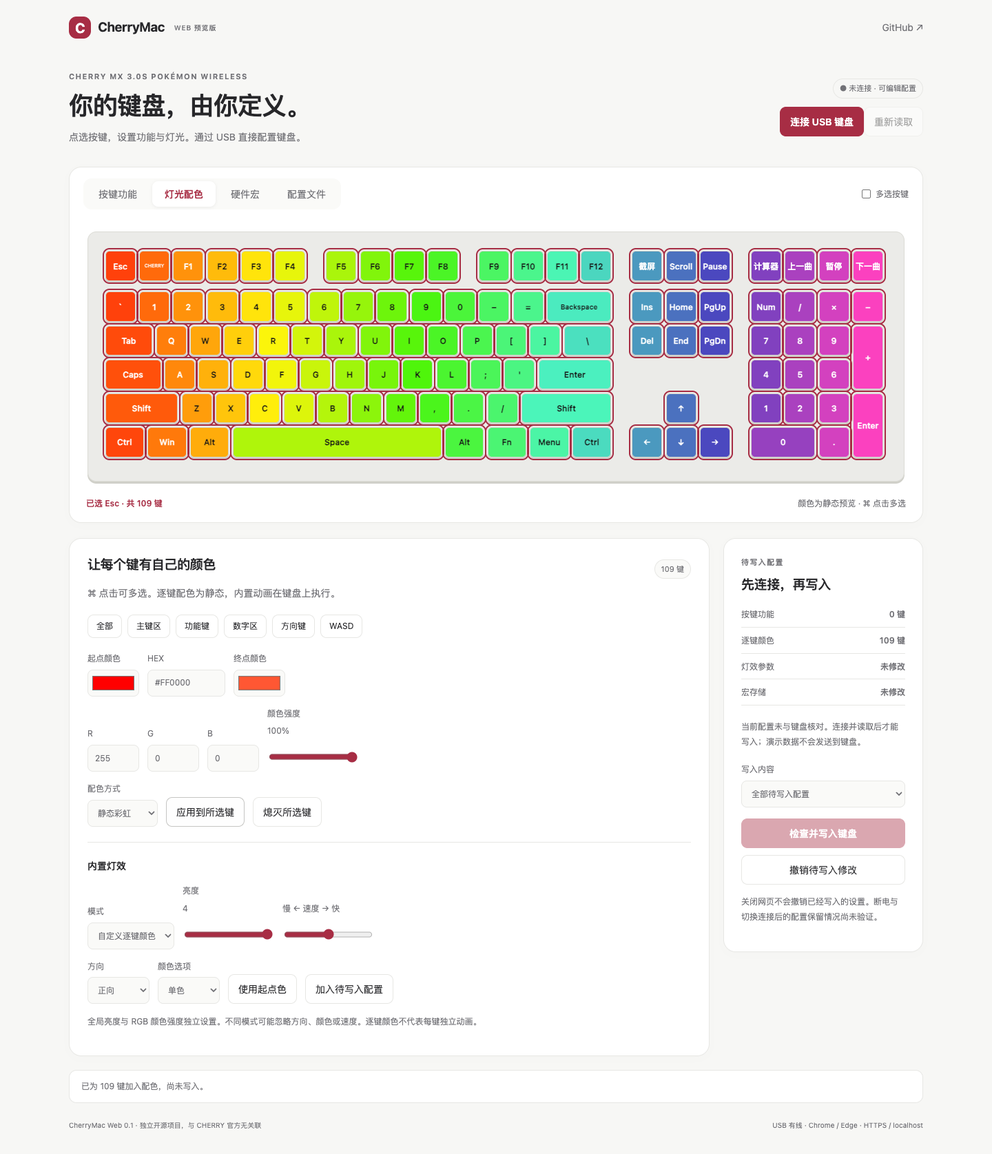
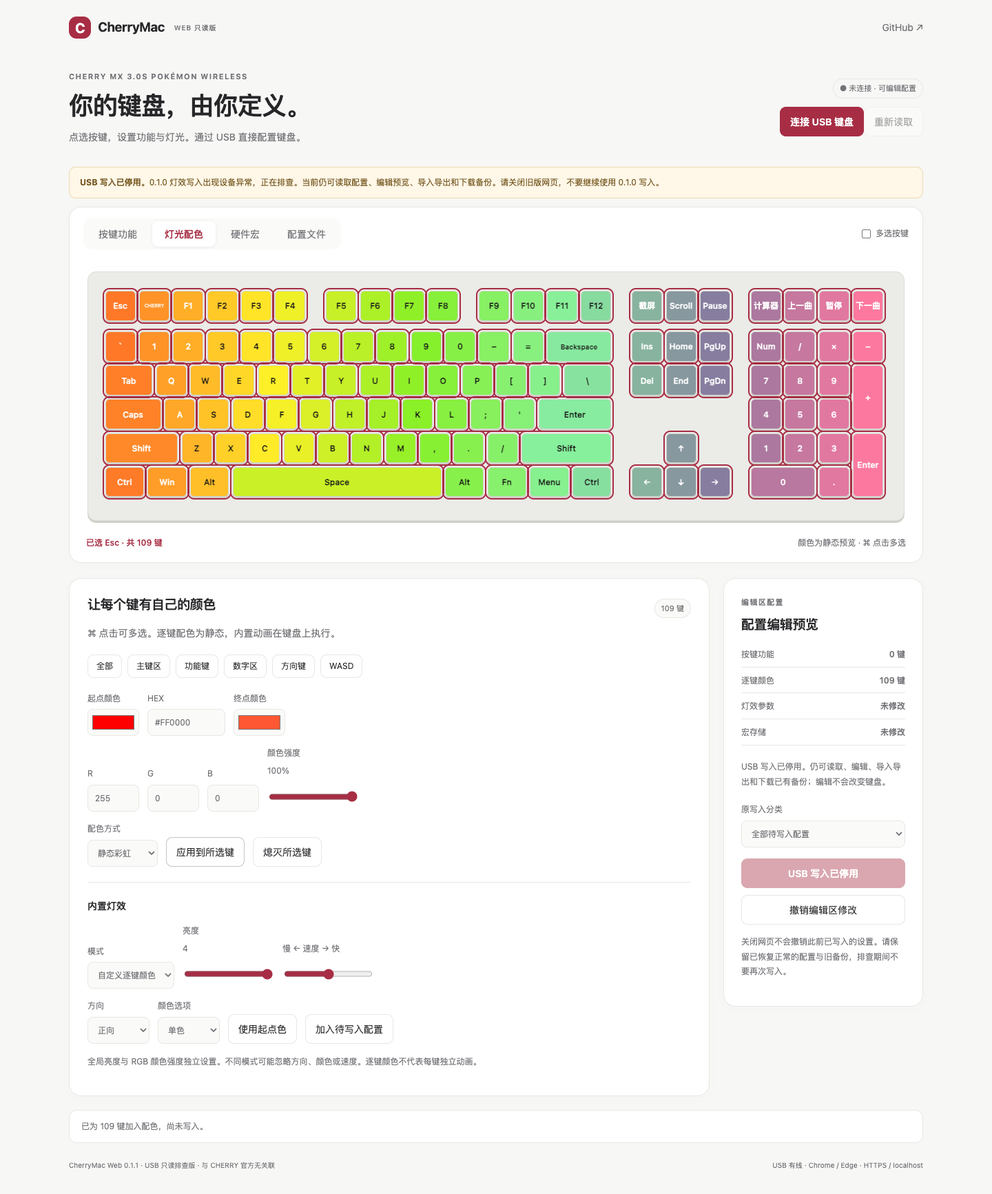
Quarantine USB writes after lighting malfunction and add local diagnostic logs

diff --git a/Web/assets/app.js b/Web/assets/app.js
@@ -1,8 +1,10 @@
-import {keys,modes,usageNames,describe,demoSnapshot,editableSlots} from './layout.js';
-import {clone,equal,requireThat,fromHardware,validateProfile,resolveMacros,parseProfile,validateMacro,rgb,hex,paint} from './model.js';
-import {CherryHID,PageReleaseGate} from './hid.js';
-import {applyConfiguration,validatePlan,sameSnapshot} from './writer.js';
-import {saveBackup,listBackups,download} from './storage.js';
+import {keys,modes,usageNames,describe,demoSnapshot,editableSlots} from './layout.js?v=0.1.1';
+import {clone,equal,requireThat,fromHardware,validateProfile,resolveMacros,parseProfile,validateMacro,rgb,hex,paint} from './model.js?v=0.1.1';
+import {CherryHID,PageReleaseGate} from './hid.js?v=0.1.1';
+import {applyConfiguration,validatePlan,sameSnapshot} from './writer.js?v=0.1.1';
+import {saveBackup,listBackups,download} from './storage.js?v=0.1.1';
+import {WRITE_BLOCK_REASON,assertHardwareWriteAllowed} from './safety.js?v=0.1.1';
+import {saveLog,listLogs} from './logs.js?v=0.1.1';
 const $=id=>document.getElementById(id),demo=demoSnapshot(),gate=new PageReleaseGate();
 let profile=fromHardware(demo),baseline=null,hid=null,busy=false,tab='keys',selected='calculator',selection=new Set([selected]),steps=[],pending=null;
 const supported=isSecureContext&&'hid' in navigator;
@@ -19,11 +21,11 @@ function render(){
   document.querySelectorAll('[data-tab]').forEach(b=>{const active=b.dataset.tab===tab;b.setAttribute('aria-selected',String(active));b.tabIndex=active?0:-1;$(`pane-${b.dataset.tab}`).hidden=!active;});
   $('multi-label').hidden=tab!=='lights';$('board-hint').textContent=tab==='lights'?'颜色为静态预览 · ⌘ 点击多选':'普通键保持正方形 · 点击按键进行设置';
   const online=hid&&!hid.dead&&baseline;$('connection').textContent=online?'● USB 已连接 · 已读取':'● 未连接 · 可编辑配置';$('connection').classList.toggle('connected',!!online);$('disconnect').hidden=!hid||hid.dead;
-  $('change-title').textContent=baseline?(changed?'准备好你的新设置':'与读取的配置一致'):'先连接，再写入';$('changes').replaceChildren();
+  $('change-title').textContent=baseline?(changed?'配置编辑预览':'与读取的配置一致'):'配置编辑预览';$('changes').replaceChildren();
   for(const [name,value] of [['按键功能',`${c.keys} 键`],['逐键颜色',`${c.colors} 键`],['灯效参数',c.params?'已修改':'未修改'],['宏存储',c.macros?'已修改':'未修改']]){const line=document.createElement('div');line.className='change-line';const text=document.createElement('span'),v=document.createElement('b');text.textContent=name;v.textContent=value;line.append(text,v);$('changes').append(line);}
-  $('draft-note').textContent=baseline?'编辑仅改变待写入配置，连接与导入不会自动写入。':'当前配置未与键盘核对。连接并读取后才能写入；演示数据不会发送到键盘。';
+  $('draft-note').textContent='USB 写入已停用。仍可读取、编辑、导入导出和下载已有备份；编辑不会改变键盘。';
   document.querySelectorAll('main button,main input,main select,dialog button').forEach(e=>e.disabled=busy);
-  $('connect').disabled=busy||!supported;$('read').disabled=busy||!hid||hid.dead;$('write').disabled=busy||!online||!changed;
+  $('connect').disabled=busy||!supported;$('read').disabled=busy||!hid||hid.dead;$('write').disabled=true;$('write').textContent='USB 写入已停用';$('confirm-write').disabled=true;
   document.querySelectorAll('[data-record],#stage-shortcut').forEach(b=>b.disabled=busy||!editableSlots.has(key.slot));
   const macroKnown=profile.macroBindings!=null;$('macro-warning').hidden=macroKnown;$('macro-warning').textContent='当前原始宏尚未识别。已保留宏数据；暂不能编辑或覆盖宏库。';
   for(const id of ['save-macro','assign-macro','delete-macro','add-pair'])$(id).disabled=busy||!macroKnown||(id==='assign-macro'&&!editableSlots.has(key.slot));
@@ -44,7 +46,7 @@ function renderSteps(){const parent=$('macro-steps');parent.replaceChildren();st
   });}
 function stageRecord(record){const key=keys.find(k=>k.id===selected);requireThat(editableSlots.has(key.slot),'内部功能键不能改写。');const p=clone(profile);p.snapshot.keymap.splice(key.slot*3,3,...record);if(p.macroBindings)delete p.macroBindings[key.slot];validateProfile(p);profile=p;status(`已为 ${key.label} 设置 ${describe(record)}，尚未写入。`);}
 async function act(fn){if(busy)return;try{await fn();render();}catch(error){status(error.message,true);render();}}
-async function read(){const s=await hid.snapshot();baseline=clone(s);profile=safeProfile(s);refreshMacros();loadMacro();syncLights();try{await saveBackup(s);}catch(error){status(`读取成功，但本地备份不可用：${error.message} 写入前必须能保存备份。`,true);return;}status('已读取完整配置并保存本地备份。可以开始编辑，尚未写入。');}
+async function read(){const s=await hid.snapshot();baseline=clone(s);profile=safeProfile(s);refreshMacros();loadMacro();syncLights();try{await saveBackup(s);}catch(error){status(`读取成功，但本地备份不可用：${error.message} USB 写入仍停用。`,true);return;}status('已读取完整配置并保存本地备份。USB 写入已停用；编辑不会改变键盘。');}
 async function operation(fn){if(busy)return;busy=true;render();try{await fn();}catch(error){status(error.message,true);}finally{busy=false;render();}}
 function switchTab(next){tab=next;if(tab==='lights')syncLights();render();}
 // Build real buttons so the diagram supports mouse, keyboard and screen readers.
@@ -68,16 +70,17 @@ $('macro-list').onchange=loadMacro;$('add-pair').onclick=()=>{const usage=Number
 $('save-macro').onclick=()=>act(()=>{const p=clone(profile),old=$('macro-list').value,m={name:$('macro-name').value.trim(),steps:clone(steps)};validateMacro(m);requireThat(!p.macros.some(macro=>macro.name===m.name&&macro.name!==old),'宏名称已存在。');const index=p.macros.findIndex(m=>m.name===old);if(index<0)p.macros.push(m);else{p.macros[index]=m;for(const [slot,name] of Object.entries(p.macroBindings??{}))if(name===old)p.macroBindings[slot]=m.name;}p.snapshot=resolveMacros(p);profile=p;refreshMacros(m.name);loadMacro();status('宏已保存到编辑区，尚未写入键盘。');});
 $('assign-macro').onclick=()=>act(()=>{const name=$('macro-list').value,key=keys.find(k=>k.id===selected);requireThat(name&&editableSlots.has(key.slot),'请选择已保存的宏和可配置按键。');const p=clone(profile);p.macroBindings[key.slot]=name;p.snapshot=resolveMacros(p);profile=p;status(`已将 ${name} 分配到 ${key.label}，尚未写入。`);});
 $('delete-macro').onclick=()=>act(()=>{const name=$('macro-list').value;requireThat(name,'请选择要删除的宏。');const p=clone(profile);for(const [slot,binding] of Object.entries(p.macroBindings))if(binding===name){p.snapshot.keymap.splice(Number(slot)*3,3,0x20,0,0);delete p.macroBindings[slot];}p.macros=p.macros.filter(m=>m.name!==name);p.snapshot=resolveMacros(p);profile=p;refreshMacros();loadMacro();status('已删除宏，原绑定键设为禁用，尚未写入。');});
-$('connect').onclick=()=>operation(async()=>{status('请在浏览器弹窗中选择 CHERRY USB 键盘。');const devices=await navigator.hid.requestDevice({filters:[{vendorId:1130,productId:462,usagePage:0xff1c,usage:0x92}]});requireThat(devices.length===1,'未选择键盘，配置没有变化。');if(hid)await hid.close();baseline=null;hid=new CherryHID(devices[0],{progress:message=>status(message+'…'),onDisconnect:error=>{status(error.message,true);render();}});await hid.open();await read();});
+$('connect').onclick=()=>operation(async()=>{status('请在浏览器弹窗中选择 CHERRY USB 键盘。');const devices=await navigator.hid.requestDevice({filters:[{vendorId:1130,productId:462,usagePage:0xff1c,usage:0x92}]});requireThat(devices.length===1,'未选择键盘，配置没有变化。');if(hid)await hid.close();baseline=null;hid=new CherryHID(devices[0],{log:saveLog,progress:message=>status(message+'…'),onDisconnect:error=>{status(error.message,true);render();}});await hid.open();await read();});
 $('read').onclick=()=>operation(read);$('disconnect').onclick=()=>operation(async()=>{if(hid)await hid.close();hid=null;status('已断开配置接口，键盘仍可正常输入。');});
 $('discard').onclick=()=>act(()=>{profile=safeProfile(baseline??demo);refreshMacros();loadMacro();syncLights();status('已撤销编辑区修改，实体键盘没有变化。');});
 $('import').onclick=()=>$('file').click();$('file').onchange=()=>operation(async()=>{const file=$('file').files[0];$('file').value='';if(!file)return;requireThat(file.size<=1_000_000,'配置文件超过 1 MB。');const p=parseProfile(await file.text(),baseline);profile=p;refreshMacros();loadMacro();syncLights();status('配置已导入编辑区，尚未写入键盘。');});
 $('export').onclick=()=>act(()=>{validateProfile(profile);download(profile,'CherryMac-profile.json');status('已导出待写入配置。');});
-$('show-backups').onclick=()=>act(async()=>{const records=await listBackups();$('backups').replaceChildren();if(!records.length)$('backups').textContent='暂无本地备份。';for(const record of records){const row=document.createElement('div');row.className='backup-row';const date=document.createElement('span');date.textContent=new Date(record.date).toLocaleString();const get=document.createElement('button');get.textContent='下载';get.onclick=()=>download(record.snapshot,`CherryMac-before-write-${record.id}.json`);const restore=document.createElement('button');restore.textContent='导入编辑区';restore.onclick=()=>act(()=>{profile=safeProfile(record.snapshot);refreshMacros();loadMacro();syncLights();status('备份已导入编辑区，确认后手动写入。');});row.append(date,get,restore);$('backups').append(row);}});
-function plan(){requireThat(baseline&&hid&&!hid.dead,'请先连接并读取键盘。');const wanted=clone(profile.snapshot),scope=$('scope').value;if(scope==='keys'){wanted.parameters=clone(baseline.parameters);wanted.colors=clone(baseline.colors);}if(scope==='lights'){wanted.keymap=clone(baseline.keymap);wanted.macroData=clone(baseline.macroData);}validatePlan(wanted,baseline);return wanted;}
+$('show-backups').onclick=()=>act(async()=>{const records=await listBackups();$('backups').replaceChildren();if(!records.length)$('backups').textContent='暂无本地备份。';for(const record of records){const row=document.createElement('div');row.className='backup-row';const date=document.createElement('span');date.textContent=new Date(record.date).toLocaleString();const get=document.createElement('button');get.textContent='下载';get.onclick=()=>download(record.snapshot,`CherryMac-before-write-${record.id}.json`);const restore=document.createElement('button');restore.textContent='导入编辑区';restore.onclick=()=>act(()=>{profile=safeProfile(record.snapshot);refreshMacros();loadMacro();syncLights();status('备份仅导入编辑区预览，未恢复或修改实体键盘。USB 写入已停用。');});row.append(date,get,restore);$('backups').append(row);}});
+$('diagnostics').onclick=()=>operation(async()=>{await hid?.logTasks;let usbLogs=[],logError=hid?.loggingError??null;try{usbLogs=await listLogs();}catch(error){logError=error.message;}const evidence={format:'CherryMacWebDiagnostics',version:1,webVersion:'0.1.1',capturedAt:new Date().toISOString(),browser:navigator.userAgent,origin:location.origin,baseline:clone(baseline),draft:clone(profile),backups:await listBackups(),usbLogs,sessionLogs:clone(hid?.history??[]),logError,note:'包含本地备份及新版只读请求／回复／耗时／错误，不能重建 0.1.0 故障时实际发送的包。'};download(evidence,'CherryMac-diagnostics.json');status(`排查资料已下载到本地，未上传。USB 写入已停用。${logError?' 日志存储异常：'+logError:''}`);});
+function plan(){assertHardwareWriteAllowed();}
 $('write').onclick=()=>act(()=>{pending=plan();requireThat(!sameSnapshot(pending,baseline),'选中的写入类别没有变化。');const c=counts(pending,baseline);$('confirm-summary').textContent=`将修改 ${c.keys} 个键位、${c.colors} 个按键颜色${c.params?'，以及灯效参数':''}${c.macros?'，以及宏存储':''}。`;$('confirm').showModal();});
 $('cancel-write').onclick=()=>{$('confirm').close();pending=null;};
-$('confirm-write').onclick=e=>{let wanted;try{gate.acknowledge(e);wanted=pending;requireThat(wanted,'没有待写入配置。');}catch(error){status(error.message,true);return;}$('confirm').close();pending=null;void operation(async()=>{
+$('confirm-write').onclick=e=>{let wanted;try{assertHardwareWriteAllowed();gate.acknowledge(e);wanted=pending;requireThat(wanted,'没有待写入配置。');}catch(error){status(error.message,true);return;}$('confirm').close();pending=null;void operation(async()=>{
   const after=await applyConfiguration(hid,wanted,baseline,{gate,backup:async snapshot=>{await saveBackup(snapshot);status('写入前备份已保存。');},progress:message=>status(message+'…')});
   const draft=clone(profile.snapshot);baseline=clone(after);profile.snapshot=clone(after);
   if($('scope').value==='keys'){profile.snapshot.parameters=draft.parameters;profile.snapshot.colors=draft.colors;}
@@ -86,4 +89,4 @@ $('confirm-write').onclick=e=>{let wanted;try{gate.acknowledge(e);wanted=pending
 });};
 window.addEventListener('beforeunload',e=>{if(busy){e.preventDefault();e.returnValue='';}});
 if(!supported){$('compatibility').hidden=false;$('compatibility').textContent=!isSecureContext?'当前网址不是安全环境。请使用 HTTPS 或 localhost 打开，才能连接 USB 键盘。':'此浏览器不支持 WebHID。请在电脑上的 Chrome 或 Edge 打开；当前仍可预览与编辑配置。';}
-refreshMacros();syncLights();render();
+refreshMacros();syncLights();render();status(WRITE_BLOCK_REASON,true);

diff --git a/Web/assets/writer.js b/Web/assets/writer.js
@@ -1,6 +1,6 @@
-import {clone,equal,requireThat,validateSnapshot,decodeBank} from './model.js';
-import {editableSlots,modes} from './layout.js';
-import {packet,sleep} from './hid.js';
+import {clone,equal,requireThat,validateSnapshot,decodeBank} from './model.js?v=0.1.1';
+import {editableSlots,modes} from './layout.js?v=0.1.1';
+import {assertHardwareWriteAllowed} from './safety.js?v=0.1.1';
 export const sameSnapshot=(a,b)=>['keymap','parameters','colors','macroData'].every(k=>equal(a[k],b[k]));
 const slots=s=>Array.from({length:126},(_,i)=>i).filter(i=>[0x70,0x71].includes(s.keymap[i*3]));
 function macroDuration(s,indices){const macros=decodeBank(s.macroData);let max=0;
@@ -26,36 +26,8 @@ export function validatePlan(wanted,before){
   }
   if(!equal(wanted.macroData,before.macroData)){decodeBank(wanted.macroData);macroDuration(before,slots(before));macroDuration(wanted,slots(wanted));}
 }
-export async function applyConfiguration(hid,wanted,baseline,{gate,backup,progress=()=>{}}){
-  validatePlan(wanted,baseline);progress('核对键盘当前配置');const before=await hid.snapshot();
-  requireThat(sameSnapshot(before,baseline),'键盘配置已变化。请重新读取后再编辑。');if(sameSnapshot(before,wanted))return before;
-  await backup(before);await gate.check();
-  const bankOffsets=[];for(let o=0;o<3071;o+=54)if(!equal(wanted.macroData.slice(o,o+54),before.macroData.slice(o,o+54)))bankOffsets.push(o);
-  const colorSlots=[];for(let i=0;i<126;i++)if(!equal(wanted.colors.slice(i*3,i*3+3),before.colors.slice(i*3,i*3+3)))colorSlots.push(i);
-  const oldSlots=slots(before),newSlots=slots(wanted),bankChanged=bankOffsets.length>0,keysChanged=!equal(wanted.keymap,before.keymap),paramsChanged=!equal(wanted.parameters,before.parameters);
-  let attempted=false;
-  const send=async p=>{await gate.check();attempted=true;await hid.exchange(p);};
-  const sendKeys=async data=>{for(let o=0;o<378;o+=54)await send(packet(9,o,54,data.slice(o,o+54)));};
-  const sendBank=async data=>{for(const o of [...bankOffsets].reverse())await send(packet(0x15,o,Math.min(54,3071-o),data.slice(o,o+54)));};
-  const sendColors=async data=>{for(const i of colorSlots)await send(packet(0x0b,i*3,3,data.slice(i*3,i*3+3)));};
-  const sendParams=async data=>send(packet(6,0,9,data.slice(0,9),0x55));
-  const drain=async ms=>{progress(`等待已触发的宏结束（${Math.ceil(ms/1000)} 秒）`);for(let left=ms;left>0;left-=100){await gate.check();await sleep(Math.min(left,100));}};
-  const disable=async(s,list)=>{const map=clone(s.keymap);for(const slot of list)map.splice(slot*3,3,0x20,0,0);await sendKeys(map);};
-  try{
-    if(bankChanged){progress('写入宏存储');if(oldSlots.length){await disable(before,oldSlots);await drain(macroDuration(before,oldSlots));}await sendBank(wanted.macroData);requireThat(equal(await hid.read(0x14,3071),wanted.macroData),'宏存储读回不一致。');}
-    if(keysChanged||(bankChanged&&oldSlots.length)){progress('写入键位');await sendKeys(wanted.keymap);}
-    if(colorSlots.length){progress(`写入 ${colorSlots.length} 键颜色`);await sendColors(wanted.colors);}
-    if(paramsChanged){progress('写入灯效参数');await sendParams(wanted.parameters);}
-    progress('完整读回校验');const after=await hid.snapshot();requireThat(sameSnapshot(after,wanted),'写后读回不一致。');return after;
-  }catch(error){
-    if(!attempted)throw error;
-    try{
-      await gate.check();requireThat(!hid.dead,'USB 会话已关闭。');progress('写入失败，恢复原配置');
-      if(bankChanged){const current={...before,keymap:await hid.read(8,378)};await disable(current,[...new Set([...oldSlots,...newSlots])]);await drain(Math.max(macroDuration(before,oldSlots),macroDuration(wanted,newSlots)));await sendBank(before.macroData);}
-      if(keysChanged||bankChanged)await sendKeys(before.keymap);
-      if(colorSlots.length)await sendColors(before.colors);if(paramsChanged)await sendParams(before.parameters);
-      requireThat(sameSnapshot(await hid.snapshot(),before),'恢复读回不一致。');throw new RestoredError(`${error.message} 已恢复写入前的配置。`);
-    }catch(recovery){if(recovery instanceof RestoredError)throw recovery;throw new Error(`${error.message} 自动恢复未完成：${recovery.message} 请重新连接、读取，再导入“写入前备份”恢复。`);}
-  }
+export async function applyConfiguration(){
+  // Quarantined after a user-reported device malfunction. No read, backup,
+  // write or attempted rollback may run through this entry point.
+  assertHardwareWriteAllowed();
 }
-class RestoredError extends Error{}

diff --git a/Web/assets/hid.js b/Web/assets/hid.js
@@ -1,4 +1,5 @@
-import {requireThat,validateSnapshot} from './model.js';
+import {requireThat,validateSnapshot} from './model.js?v=0.1.1';
+import {assertReadOnlyRequest} from './safety.js?v=0.1.1';
 export const sleep=ms=>new Promise(r=>setTimeout(r,ms));
 const READ_COMMANDS=new Set([3,5,7,8,0x0a,0x14,0x1b]);
 export function packet(command,offset,length,data=[],flag=0){
@@ -20,24 +21,30 @@ export function supportsDevice(device){
     descendants(c).some(d=>(d[kind]??[]).some(r=>r.reportId===4&&(r.items??[]).reduce((n,i)=>n+i.reportSize*i.reportCount,0)===504))));
 }
 export class CherryHID{
-  constructor(device,{timeout=2000,onDisconnect=()=>{},progress=()=>{}}={}){
+  constructor(device,{timeout=2000,onDisconnect=()=>{},progress=()=>{},log=()=>{}}={}){
     requireThat(supportsDevice(device),'浏览器没有提供这把键盘的 63 字节厂商配置接口。请确认 USB 有线模式。');
     this.device=device;this.timeout=timeout;this.progress=progress;this.onDisconnect=onDisconnect;this.tail=Promise.resolve();this.dead=false;this.pending=null;
+    this.history=[];this.log=log;this.logTasks=Promise.resolve();this.loggingError=null;
     this.input=e=>{if(e.reportId!==4||!this.pending)return;const p=this.pending;
-      try{const bytes=new Uint8Array(1+e.data.byteLength);bytes[0]=4;bytes.set(new Uint8Array(e.data.buffer,e.data.byteOffset,e.data.byteLength),1);validateReply(bytes,p.request);this.finish(null,bytes);}
+      try{const bytes=new Uint8Array(1+e.data.byteLength);bytes[0]=4;bytes.set(new Uint8Array(e.data.buffer,e.data.byteOffset,e.data.byteLength),1);p.entry.reply=Array.from(bytes);validateReply(bytes,p.request);this.finish(null,bytes);}
       catch(error){this.poison(error);}
     };
     this.disconnected=e=>{if(e.device===device)this.poison(new Error('键盘已经断开。重新连接后请先读取配置。'));};
   }
   async open(){await this.device.open();this.device.addEventListener('inputreport',this.input);globalThis.navigator?.hid?.addEventListener('disconnect',this.disconnected);}
-  finish(error,result){const p=this.pending;if(!p)return;this.pending=null;clearTimeout(p.timer);if(error)p.reject(error);else p.resolve(result);}
+  record(entry){const copy=structuredClone(entry);this.logTasks=this.logTasks.then(()=>this.log(copy)).catch(error=>{this.loggingError=error.message;});}
+  finish(error,result){const p=this.pending;if(!p)return;this.pending=null;clearTimeout(p.timer);p.entry.durationMs=performance.now()-p.start;p.entry.status=error?'error':'ok';p.entry.error=error?.message??null;this.record(p.entry);if(error)p.reject(error);else p.resolve(result);}
   poison(error){if(this.dead)return;this.dead=true;this.finish(error);this.device.removeEventListener('inputreport',this.input);globalThis.navigator?.hid?.removeEventListener('disconnect',this.disconnected);void this.device.close().catch(()=>{});this.onDisconnect(error);}
   async close(){this.poison(new Error('USB 会话已关闭。'));await this.tail.catch(()=>{});}
   exchange(request){
     const task=this.tail.then(()=>{
+      assertReadOnlyRequest(request);
       requireThat(!this.dead&&this.device.opened,'USB 连接已失效，请重新连接。');
+      const entry={id:crypto.randomUUID(),at:new Date().toISOString(),command:request[3],offset:request[5]|request[6]<<8,length:request[4],request:Array.from(request),reply:null,status:'pending',durationMs:null,error:null};
+      this.history.push(entry);this.record(entry);
+      if(this.history.length>300)this.history.shift();
       return new Promise((resolve,reject)=>{
-        this.pending={request,resolve,reject,timer:setTimeout(()=>this.poison(new Error('USB 回复超时；命令可能已执行。已停止发送，请重新连接并读取。')),this.timeout)};
+        this.pending={request,resolve,reject,entry,start:performance.now(),timer:setTimeout(()=>this.poison(new Error('USB 回复超时；命令可能已执行。已停止发送，请重新连接并读取。')),this.timeout)};
         // WebHID receives the ID separately: 4 + 63 bytes, never a duplicated ID.
         this.device.sendReport(4,request.slice(1)).catch(error=>this.poison(error));
       });

diff --git a/Web/assets/safety.js b/Web/assets/safety.js
@@ -1,0 +1,15 @@
+// Stop all device mutation after the 0.1.0 lighting malfunction report.
+// This is a fixed policy, without URL, local-storage or caller overrides.
+export const WRITE_BLOCK_REASON='USB 写入已停用：0.1.0 灯效写入曾导致设备异常，原因仍在排查。当前仅允许读取、预览、导入导出和下载备份。';
+export function assertHardwareWriteAllowed(){throw new Error(WRITE_BLOCK_REASON);}
+const READ_LIMITS=new Map([[3,34],[5,56],[8,378],[0x0a,378],[0x14,3071],[0x1b,126]]);
+export function assertReadOnlyRequest(request){
+  const limit=READ_LIMITS.get(request?.[3]);
+  if(!limit)assertHardwareWriteAllowed();
+  const offset=request[5]|request[6]<<8,length=request[4];
+  if(request.length!==64||request[0]!==4||request[7]!==0||length<1||length>54||offset+length>limit||request.slice(8).some(v=>v!==0)){
+    throw new Error('只读查询格式无效，未发送到键盘。');
+  }
+  const checksum=request.slice(3).reduce((n,v)=>n+v,0);
+  if((request[1]|request[2]<<8)!==checksum)throw new Error('只读查询校验无效，未发送到键盘。');
+}

diff --git a/Web/assets/logs.js b/Web/assets/logs.js
@@ -1,0 +1,5 @@
+// Separate database preserves the existing 0.1.0 backup schema and records.
+let database;
+function db(){if(!database)database=new Promise((resolve,reject)=>{const r=indexedDB.open('CherryMacWebLogs',1);r.onupgradeneeded=()=>r.result.createObjectStore('logs',{keyPath:'id'});r.onsuccess=()=>resolve(r.result);r.onerror=()=>reject(r.error);r.onblocked=()=>reject(new Error('日志数据库被其他页面占用。'));});return database;}
+export async function saveLog(entry){const database=await db();await new Promise((resolve,reject)=>{const t=database.transaction('logs','readwrite');t.objectStore('logs').put(entry);t.oncomplete=resolve;t.onerror=()=>reject(t.error);t.onabort=()=>reject(t.error??new Error('日志存储失败。'));});}
+export async function listLogs(){const database=await db();return new Promise((resolve,reject)=>{const t=database.transaction('logs','readonly'),r=t.objectStore('logs').getAll();let logs=[];r.onsuccess=()=>logs=r.result;t.oncomplete=()=>resolve(logs.sort((a,b)=>a.at.localeCompare(b.at)));t.onerror=()=>reject(t.error);});}

diff --git a/Web/assets/storage.js b/Web/assets/storage.js
@@ -1,4 +1,4 @@
-import {validateSnapshot,equal} from './model.js';
+import {validateSnapshot,equal} from './model.js?v=0.1.1';
 let database;
 function db(){if(!database)database=new Promise((resolve,reject)=>{const r=indexedDB.open('CherryMacWeb',1);r.onupgradeneeded=()=>r.result.createObjectStore('backups',{keyPath:'id'});r.onsuccess=()=>resolve(r.result);r.onerror=()=>reject(r.error);r.onblocked=()=>reject(new Error('备份数据库被其他页面占用。'));});return database;}
 function transaction(database,mode,action){return new Promise((resolve,reject)=>{const t=database.transaction('backups',mode),request=action(t.objectStore('backups'));let result;request.onsuccess=()=>{result=request.result;};t.oncomplete=()=>resolve(result);t.onerror=()=>reject(t.error);t.onabort=()=>reject(t.error??new Error('备份存储失败。'));});}

diff --git a/Web/assets/model.js b/Web/assets/model.js
@@ -1,5 +1,5 @@
-import {SLOTS,WINDOWS_DEFAULTS,MEDIA_CODES,MODE_CODES} from './tables.js';
-import {keys,modes} from './layout.js';
+import {SLOTS,WINDOWS_DEFAULTS,MEDIA_CODES,MODE_CODES} from './tables.js?v=0.1.1';
+import {keys,modes} from './layout.js?v=0.1.1';
 export const clone=x=>structuredClone(x);
 export const equal=(a,b)=>JSON.stringify(a)===JSON.stringify(b);
 export function requireThat(ok,message){if(!ok)throw new Error(message);}

diff --git a/Web/assets/layout.js b/Web/assets/layout.js
@@ -1,4 +1,4 @@
-import {SPECIAL, SLOTS} from './tables.js';
+import {SPECIAL, SLOTS} from './tables.js?v=0.1.1';
 export const keys=[];
 function add(id,label,usage,x,row,w=1,h=1,page=7){
   keys.push({id,label,usage,page,x:18+x*36,y:20+row*36,w:w*36-4,h:h*36-4,slot:SPECIAL[id]??SLOTS[usage]});

diff --git a/Web/index.php b/Web/index.php
@@ -9,11 +9,12 @@ header("Content-Security-Policy: default-src 'self'; script-src 'self'; style-sr
 ?>
 <!doctype html>
 <html lang="zh-CN">
-<head><meta charset="utf-8"><meta name="viewport" content="width=device-width,initial-scale=1"><title>CherryMac · 键盘配置</title><link rel="stylesheet" href="assets/style.css"><script type="module" src="assets/app.js"></script></head>
+<head><meta charset="utf-8"><meta name="viewport" content="width=device-width,initial-scale=1"><title>CherryMac · 键盘配置</title><link rel="stylesheet" href="assets/style.css?v=0.1.1"><script type="module" src="assets/app.js?v=0.1.1"></script></head>
 <body>
-<header class="topbar"><a class="brand" href="./"><span class="brandmark">C</span>CherryMac <span class="webtag">WEB 预览版</span></a><a href="https://github.com/5hux1n/CherryMac" target="_blank" rel="noopener noreferrer">GitHub ↗</a></header>
+<header class="topbar"><a class="brand" href="./"><span class="brandmark">C</span>CherryMac <span class="webtag">WEB 只读版</span></a><a href="https://github.com/5hux1n/CherryMac" target="_blank" rel="noopener noreferrer">GitHub ↗</a></header>
 <main>
   <div class="heading"><div><p class="eyebrow">CHERRY MX 3.0S POKÉMON WIRELESS</p><h1>你的键盘，由你定义。</h1><p class="subtitle">点选按键，设置功能与灯光。通过 USB 直接配置键盘。</p></div><div class="connect-area"><span id="connection" class="badge">● 未连接 · 可编辑演示</span><div><button id="connect" class="primary">连接 USB 键盘</button><button id="read" disabled>重新读取</button><button id="disconnect" hidden>断开</button></div></div></div>
+  <p class="notice" role="alert"><strong>USB 写入已停用。</strong>0.1.0 灯效写入出现设备异常，正在排查。当前仍可读取配置、编辑预览、导入导出和下载备份。请关闭旧版网页，不要继续使用 0.1.0 写入。</p>
   <p id="compatibility" class="notice" hidden></p>
   <section class="board-card" aria-label="键盘工程图">
     <div class="board-head"><div class="tabs" role="tablist" aria-label="配置类别"><button role="tab" id="tab-keys" data-tab="keys" aria-selected="true">按键功能</button><button role="tab" id="tab-lights" data-tab="lights" aria-selected="false">灯光配色</button><button role="tab" id="tab-macros" data-tab="macros" aria-selected="false">硬件宏</button><button role="tab" id="tab-profiles" data-tab="profiles" aria-selected="false">配置文件</button></div><label id="multi-label" hidden><input type="checkbox" id="multi">多选按键</label></div>
@@ -42,12 +43,12 @@ header("Content-Security-Policy: default-src 'self'; script-src 'self'; style-sr
         <div class="form-row"><label>添加按键<select id="macro-key"></select></label><button id="add-pair">添加按下＋松开</button></div>
         <div class="form-row"><button id="save-macro">保存宏</button><button id="assign-macro">分配到所选键</button><button id="delete-macro">删除宏</button></div><p class="help">最多 32 个宏，共用 3071 字节存储区。循环、切换、鼠标宏暂不支持；实体触发与断电保留仍待验证。</p>
       </div>
-      <div id="pane-profiles" role="tabpanel" aria-labelledby="tab-profiles" hidden><h2>保存与迁移配置</h2><p class="muted">文件在浏览器本地处理，不会上传到服务器。</p><div class="form-row"><button id="import">导入 JSON 配置</button><button id="export">导出当前配置</button><input type="file" id="file" accept=".json,application/json" hidden></div><p class="help">支持 CherryMac 配置和此型号的 Windows 官方导出文件。Windows 导入前需要读取键盘；不支持的绑定会拒绝整个导入。导入仅更改编辑区。</p><div class="divider"></div><h3>写入前备份</h3><p class="muted">备份存于当前浏览器与网站的本地数据库。建议下载保存；清理网站数据会删除备份。</p><button id="show-backups">查看本地备份</button><div id="backups"></div></div>
+      <div id="pane-profiles" role="tabpanel" aria-labelledby="tab-profiles" hidden><h2>保存与迁移配置</h2><p class="muted">文件在浏览器本地处理，不会上传到服务器。</p><div class="form-row"><button id="import">导入 JSON 配置</button><button id="export">导出当前配置</button><input type="file" id="file" accept=".json,application/json" hidden></div><p class="help">支持 CherryMac 配置和此型号的 Windows 官方导出文件。Windows 导入前需要读取键盘；不支持的绑定会拒绝整个导入。导入仅更改编辑区。</p><div class="divider"></div><h3>已有本地备份</h3><p class="muted">备份存于当前浏览器与网站的本地数据库。建议下载保存；清理网站数据会删除备份。导入备份仅供预览，当前不能写入或恢复实体键盘。</p><button id="show-backups">查看本地备份</button><div id="backups"></div><div class="divider"></div><h3>排查资料</h3><p class="muted">下载本地备份、编辑区配置及新版只读查询记录，便于对比。文件包含按键与宏内容，仅保存到你的电脑，不会自动上传。</p><button id="diagnostics">导出排查资料</button></div>
     </section>
-    <aside class="review-card"><p class="eyebrow">待写入配置</p><h2 id="change-title">先连接，再写入</h2><div id="changes" class="changes"></div><p id="draft-note" class="help">当前为演示配置。可以自由编辑和导出，演示数据不会发送到键盘。</p><label class="write-scope">写入内容<select id="scope"><option value="all">全部待写入配置</option><option value="keys">仅键位与宏</option><option value="lights">仅灯效与颜色</option></select></label><button id="write" class="primary wide" disabled>检查并写入键盘</button><button id="discard" class="wide">撤销待写入修改</button><p class="help">关闭网页不会撤销已经写入的设置。断电与切换连接后的配置保留情况尚未验证。</p></aside>
+    <aside class="review-card"><p class="eyebrow">编辑区配置</p><h2 id="change-title">USB 写入已停用</h2><div id="changes" class="changes"></div><p id="draft-note" class="help">当前仅允许读取与编辑配置。</p><label class="write-scope">原写入分类<select id="scope"><option value="all">全部待写入配置</option><option value="keys">仅键位与宏</option><option value="lights">仅灯效与颜色</option></select></label><button id="write" class="primary wide" disabled>USB 写入已停用</button><button id="discard" class="wide">撤销编辑区修改</button><p class="help">关闭网页不会撤销此前已写入的设置。请保留已恢复正常的配置与旧备份，排查期间不要再次写入。</p></aside>
   </div>
   <div id="status" class="status" role="status" aria-live="polite">演示模式 · 连接不会自动写入</div>
-  <footer><span>CherryMac Web 0.1 · 独立开源项目，与 CHERRY 官方无关联</span><span>USB 有线 · Chrome / Edge · HTTPS / localhost</span></footer>
+  <footer><span>CherryMac Web 0.1.1 · USB 只读排查版 · 与 CHERRY 官方无关联</span><span>USB 有线 · Chrome / Edge · HTTPS / localhost</span></footer>
 </main>
 <dialog id="confirm"><h2>准备写入键盘</h2><p id="confirm-summary"></p><p>请松开全部按键，包括 Ctrl、Alt、Win 和 Shift，然后用鼠标点击下方按钮。写入期间不要按键，保持此页面在前台。</p><p class="help">浏览器只能检查本页面内的按键事件，无法确认全系统按键是否已释放。写入前会保存备份，完成后完整读回核对。</p><div class="form-row"><button id="cancel-write">返回编辑</button><button id="confirm-write" class="primary">全部已松开，开始写入</button></div></dialog>
 </body></html>

diff --git a/Web/README.md b/Web/README.md
@@ -1,78 +1,60 @@
-# CherryMac 网页版
+# CherryMac 网页版 0.1.1：USB 只读排查版
 
-在浏览器里点选 CHERRY MX 3.0S Pokémon Wireless 的按键，调整快捷键、灯效和单次键盘宏，通过 USB 配置键盘。
+**0.1.0 灯效写入曾导致实际键盘异常，已撤回公开下载。当前停用全部 USB 写入。** 请关闭旧版页面，再打开新版；不要用旧版重复测试。已恢复正常的键盘请保持当前设置。
 
-这是 **PHP + 原生 JavaScript** 的开发预览版。上传文件就能使用，不需要 Composer、npm、打包构建或数据库服务。PHP 只提供网页，USB 通信与文件处理在你的浏览器中完成；配置不会上传到服务器。
-
-![逐键灯光配色预览](../docs/网页版预览.png)
+保留键盘图、快捷键与逐键灯光编辑、宏编辑、配置导入导出、已有备份下载和本地排查资料导出。编辑与导入只改变网页预览，不能修改或恢复实体键盘。
 
 ## 在自己的 Mac 上打开
 
-电脑需要已安装 PHP。在本目录运行：
+电脑已安装 PHP 时，在此目录运行：
 
 ```sh
 php -S 127.0.0.1:8768 -t .
 ```
 
-用 **Chrome 或 Edge** 打开 <http://localhost:8768/>。Mac 用户也可以双击 `start.command` 启动；终端按 Control+C 停止服务。PHP 内置服务用于本机预览，不用于公网部署。
+用 Chrome 或 Edge 打开 <http://localhost:8768/>。也可双击 `start.command`；终端按 Control+C 停止服务。
 
-## 放到 PHP 网站
+上传 `index.php` 与整个 `assets` 到 HTTPS 的 PHP 网站可直接运行，不需要 Composer、npm、构建或服务器数据库。PHP 内置服务只用于本机预览。已验证 PHP 8.5 页面输出与 JavaScript MIME 类型。
 
-把 `index.php` 和整个 `assets` 目录原样上传到 PHP 网站的同一目录，用 **HTTPS** 打开 `index.php` 即可。已验证 PHP 8.5 的页面输出，入口只使用标准 PHP HTTP 头功能，没有扩展依赖。服务器需把 `.js` 文件作为 JavaScript 提供。
+新版入口与模块带 0.1.1 版本标记，减少加载旧脚本的问题。已经打开的旧页面不会自动更新，必须关闭后重新打开。
 
-PHP 网站可以放在服务器上，键盘应连接到**打开网页的那台电脑**。服务器不能替你访问本机 USB。普通 HTTP 网站、直接双击本地 PHP 文件、Safari 和 Firefox 都不适用于连接功能；不支持 WebHID 时仍可编辑演示配置。
+## 读取与排查资料
 
-## 第一次配置
+“连接 USB 键盘”只打开厂商配置接口并读取配置，不会写入。需要 USB 数据线、有线模式，以及 Chrome／Edge 的设备选择授权。当前连接功能允许有界只读查询；普通键盘与鼠标报告仍受浏览器保护。[Chrome WebHID 文档](https://developer.chrome.com/docs/capabilities/hid)
 
-1. 用 USB 数据线连接键盘，切换到有线模式。
-2. 点击“连接 USB 键盘”，在浏览器的设备选择框中选择 CHERRY。页面会读取完整配置，并在本地保存备份，连接不会自动写入。
-3. 点选键位并设置功能；或者进入“灯光配色”，选择多个键并配色。编辑宏时先保存宏，再分配到按键。
-4. 检查右侧待写入内容，可以选择仅写入键位与宏、仅写入灯光，或者全部写入。
-5. **松开全部按键，用鼠标确认。** 写入期间不要按键，保持网页在前台。完成后会读回键位、灯效、颜色和宏存储核对。
+“配置文件 → 查看本地备份”可以下载此前在同一浏览器、同一网址保存的备份。不要清理网站数据；切换浏览器或网址不会自动带上旧备份。备份导入仅供编辑区预览，不能恢复设备。
 
-普通单键为正方形。计算器、上一曲、播放／暂停、下一曲位于 Num、/、×、− 上方。Fn、CHERRY 内部功能键和隐藏位置保留原值。
+“配置文件 → 导出排查资料”下载浏览器版本、当前读取的配置、编辑区、已有本地备份及新版只读请求、回复、耗时和错误日志。日志单独存于浏览器本地数据库，刷新后仍可导出；存储失败会在导出时说明，并附上当前会话的内存记录。文件包含按键与宏内容，保存在你的电脑，不会自动上传。新记录不能重建 0.1.0 故障时实际发送的包。
 
-## 能设置什么
+不必重新连接或读取键盘，也可以导出已有备份；空日志会如实保留为空。之前 0.1.0 的日志无法补生成。
 
-| 功能 | 可用设置 |
-| --- | --- |
-| 键位 | 框选截图、⌘R 刷新、自定义组合键、媒体控制、禁用 |
-| 逐键灯光 | RGB、HEX、颜色强度、批量配色、横向／纵向渐变、静态彩虹、皮卡丘／喷火龙配色、单键熄灭 |
-| 内置灯效 | 12 种模式、全局亮度、速度、方向和单色／彩虹选项 |
-| 宏 | 键盘按下、松开和逐步延迟，执行一次；最多 32 个宏，共用 3071 字节 |
-| 配置 | CherryMac JSON 导入导出、本型号 Windows 官方 JSON 导入、本地备份下载与导入 |
+## 写入停用措施
 
-刷新预设会让实体键输出 ⌘R，适用于所有应用。若希望仅在浏览器里启用 F5，请使用原生 App 的 Mac 端适配。网页不能在所有应用中监听并转换按键。
+页面写入按钮、配置写入入口及底层 USB 发送接口均阻止设备修改。底层只允许设备信息、灯光参数、当前键位、颜色、宏区和 LED 索引的查询；写命令、未知命令、越界或带数据的伪查询在发送前拒绝。没有启用写入的参数、地址开关或本地设置。
 
-macOS 通常不会用计算器媒体键打开系统计算器。另一方案是先在 CherryMac App 中安装计算器快捷操作，再用网页将键设为 ⌃⌥⌘C；完整实体启动效果仍待验证。网页不能安装 macOS 服务或直接让硬件启动任意应用。
+新版不会自动回滚或重发写命令。0.1.0 的旧包和历史源码不受新版保护，不能继续用来写入键盘。
 
-Windows JSON 导入前需要读取完整配置。支持普通键、快捷键、媒体键、逐键 RGB 和单次键盘宏；不支持的绑定会拒绝整个导入。文本、鼠标、循环和固定间隔宏暂不迁移，未绑定动作库不迁移。导入和导出都不会自动写入。
+## 验证与调查状态
 
-## 备份与恢复
+0.1.1 的离线测试检查写入入口零设备操作、写命令及未知命令零发送、查询边界、读取、超时、断线、配置解析和预览。此前 0.1.0 的模拟读写测试通过，**但没有证明真实硬件写入可靠**。
 
-读取后及每次写入前，将完整配置保存到浏览器 IndexedDB。备份存储失败会阻止写入。在“配置文件 → 查看本地备份”中可以下载 JSON，也可以导入编辑区，再手动写入恢复。
-
-备份与网站地址、浏览器及用户配置关联；改用另一个浏览器或网站不会自动带上备份。**建议下载到电脑保存**，清理网站数据会删除本地备份。
-
-写后校验失败时，只有连接仍有效、页面仍在前台且松键确认有效，才尝试恢复原配置。USB 超时、无效回复和断线会关闭会话，避免重发可能已经执行的命令。此时请重新连接、读取实际配置，再导入写入前备份恢复。
-
-浏览器无法读取受保护的普通键盘报告，只能检查本页面内的按键事件；因此松开全部按键必须由你实际确认。切走页面、按住按键或断线会停止后续写入，可能留下部分修改，届时按上面的流程恢复。
-
-## 当前验证范围
-
-网页版已通过 17 项离线协议与故障测试，以及 Chrome 页面交互和模拟 WebHID 设备的读写、备份测试。这些测试不连接或修改实体键盘。
-
-底层 USB 协议来自原生 App 已完成的实物读写研究。**网页版的浏览器授权与实体 USB 写入仍待实测**，不能将模拟测试当成实物通过。宏实体触发、内置动画外观、断电与切换连接后的配置保留仍待验证。当前只实现 USB 写入，蓝牙和无线接收器写入未确认。
-
-浏览器接口与保护规则见 [Chrome WebHID 文档](https://developer.chrome.com/docs/capabilities/hid)。无需浏览器实验开关，也不会绕过普通键盘／鼠标的保护。
+查到网页版与原生程序的逐包等待节奏不同，原生灯效实物测试也未覆盖一次大批量逐键配色。根因尚未确认，不能只加延迟就宣布修复。[本次异常排查记录](../docs/网页版灯效异常排查.md)
 
 ## 开发验证
 
-仅开发自测需要 Node，不影响 PHP 部署或用户使用：
+仅开发自测需要 Node，不影响 PHP 部署：
 
 ```sh
 node --test tests/core.test.mjs
 php -l index.php
 ```
 
-`package.json` 仅指定测试时 JavaScript 模块类型，没有依赖和构建步骤。部署只需要 `index.php`、`assets`，不需要 `tests` 或 `package.json`。
+测试使用模拟设备，不连接或修改实体键盘。部署只需要 `index.php` 与 `assets`；`package.json` 仅指定测试模块类型，没有依赖与构建步骤。
+
+拿到导出的排查文件后，可离线校验已有回复，并比较相邻备份的灯光参数、颜色位置、键位位置及宏区变化：
+
+```sh
+node tests/replay-diagnostics.mjs CherryMac-diagnostics.json
+```
+
+该脚本没有设备访问或发送操作。它只能分析实际记录，不会重现未记录的物理故障。

diff --git a/docs/网页版灯效异常排查.md b/docs/网页版灯效异常排查.md
@@ -1,0 +1,39 @@
+# 网页版 0.1.0 灯效写入异常
+
+2026-10-02，用户反馈：通过网页版写入灯光配色后，键盘灯熄灭、无法使用，Mac 无法识别；Windows 仍可连接。用 Windows 配置恢复后部分键仍闪灯，再通过网页导入 JSON 并恢复后恢复正常。用户随后确认恢复用的是 Windows 官方 JSON，但不记得出问题那次选了哪种写入类别。
+
+这是用户报告的实际故障。0.1.0 不能继续作为可用的硬件写入版本分发。
+
+## 已采取的措施
+
+- 0.1.0 GitHub Release 转为草稿，撤回公开下载；历史源码保留供排查。
+- 0.1.1 移除执行设备写入的流程。页面按钮、配置入口及底层 USB 发送接口同时拒绝全部写命令和未知命令；没有启用写入的参数或开关。
+- 仅保留设备信息、灯光参数、当前键位、颜色、宏区与 LED 索引的有界只读查询，以及本地编辑、导入导出、备份下载。
+- 添加本地排查资料导出。包含浏览器版本、当前读取的配置、编辑区、历史备份及新版只读请求、回复、耗时和错误日志；不自动上传。另提供无设备访问的离线日志校验与快照差异工具。
+- 所有测试与排查均离线或使用模拟设备，本次没有向实体键盘发送命令。
+
+旧版已打开的网页不会自动变成只读版。请先关闭旧页面，再打开 0.1.1；不要再次运行旧包来复现故障。
+
+## 已确认的实现差异
+
+原生 `waitUntilKeysReleased()` 在每次调用中重新建立松键检测器，每个写入包前重新等待连续约 200 毫秒的松键状态。网页版 0.1.0 根据最近一次页面按键事件／鼠标确认时间等待，首次达到 200 毫秒后，后续包可以连续快速发送。等待上一个命令回复不等于复刻了原生逐包等待的发送节奏。
+
+此前原生实物测试只同时修改两个键的 RGB；切换其他内置模式的测试大多只发一个参数包。它们不能证明网页版一次修改大量颜色的发送节奏可被硬件可靠处理。
+
+网页版默认“全部待写入配置”还会包含此前编辑或导入的键位、宏及其他待写入数据。需要核对当时实际修改内容，不能仅凭正在编辑灯效就认定当时只发送了颜色命令。
+
+0.1.0 遇到超时、无效回复或断线会关闭会话，无法继续回滚，因此可能留下部分修改。网页没有保存那次实际写入的包与时间记录，新的记录不能重建历史通信。
+
+灯效写入包已用原生 `CherryPacket` 代码离线逐字节比对：126 个位置的 `0B` RGB 包与一个 `06` 参数包一致。这只排除了这些测试向量的编码差异，不能验证物理通信、固件执行、时序或实际故障时发出的内容。
+
+**根因仍未确认。** 发送节奏是已确认的实现差异与调查方向，不能直接宣布它导致了本次故障，更不能只加延迟就重新开放写入。
+
+使用用户此前提供的 Windows JSON，与原生 0.7 转换结果离线对比，当前网页版转换生成的键位、灯效参数、逐键 RGB 和宏区均一致。此结果不代表确认了本次恢复文件就是此前那份文件，也不证明实际故障时配置正确。
+
+## 后续所需证据
+
+需要对比出问题前的完整备份、出问题时的编辑配置（若仍保留）、恢复成功的 JSON，以及页面当时的完成／报错信息。排查资料可在“配置文件 → 导出排查资料”下载；文件可能包含宏内容，请先确认后再分享。
+
+不要清理原网站的浏览器数据，否则旧备份会丢失。若在另一个浏览器或网址打开新版，原站点的备份不会自动迁移。
+
+已有正常恢复的键盘应保持当前设置。重新开放硬件写入前，需要独立的实际协议与执行时序证据、逐步限量验证和可确认的恢复流程；本页不提供再次向实体键盘写入的操作步骤。

diff --git a/README.md b/README.md
@@ -12,13 +12,15 @@
 
 ## 网页版（PHP，无需构建）
 
-也可以在 **Chrome 或 Edge** 中打开网页版，点选键盘设置快捷键、逐键灯光、内置灯效和单次键盘宏，导入导出配置，并通过 WebHID 进行 USB 通信。
+**0.1.0 灯效写入发生设备异常，已撤回公开下载。0.1.1 暂停全部 USB 写入。** 请关闭旧版页面，不要继续用 0.1.0 写入。恢复正常的键盘请保持当前配置。
+
+在 **Chrome 或 Edge** 中打开 0.1.1 网页版，可以点选键盘编辑快捷键、逐键灯光和单次宏，读取配置、导入导出文件、下载已有备份和排查资料。当前不会把编辑结果写入键盘。
 
 将 [Web](Web) 目录中的 `index.php` 与 `assets` 上传到 HTTPS 的 PHP 网站即可使用，不需要 Composer、npm 或数据库服务。本机可在该目录运行 `php -S 127.0.0.1:8768 -t .`，再打开 <http://localhost:8768/>。
 
-网页版已通过离线与模拟设备读写测试，浏览器授权和实体 USB 写入仍待实测。配置文件在浏览器本地处理，不上传服务器；写入前保存本地备份，完成后读回核对。它不能代替原生 App 的全系统按键适配或 macOS 快捷操作安装。
+模拟设备测试没有覆盖真实键盘的处理速度与异常状态，不能证明硬件写入可靠。配置文件在浏览器本地处理，不上传服务器。请保留旧网页在原浏览器、原网址下保存的备份；清理网站数据会删除它们。
 
-[下载 PHP 网页源码包](https://github.com/5hux1n/CherryMac/releases/download/web-v0.1.0/CherryMac-Web-0.1.0.zip) · [网页版使用与部署说明](Web/README.md)
+[下载 0.1.1 PHP 只读源码包](https://github.com/5hux1n/CherryMac/releases/download/web-v0.1.1/CherryMac-Web-0.1.1.zip) · [网页版使用与部署说明](Web/README.md) · [本次异常排查记录](docs/网页版灯效异常排查.md)
 
 ![网页版逐键配色界面](docs/网页版预览.png)
 
